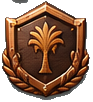
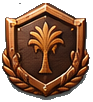
v70: league badges in lobby and results, promotion/demotion card
- Badge per league from the UI kit beside the name in the lobby banner (yours or the opponent's)
- Results: badge in the league row, and a promotion or demotion card when you cross a league line
- Clean a stray strip off the bronze and silver badge images

Claude-Session: https://claude.ai/code/session_01CeDzvGkakZqKzCVSNeQDDS

Changed region(s): [[0.129, 0.0, 0.3011, 0.0294], [0.4516, 0.0, 0.5161, 0.0294]]

diff --git a/index.html b/index.html
@@ -589,6 +589,22 @@ button.kW,button.kR,button.kG{min-height:46px}
 .spR b{text-align:left;direction:rtl;white-space:nowrap;font-size:13px}
 .spA{font-style:normal;text-align:center}.spA em{font-style:normal;font-size:13px}.spA .up{color:#1F8A4C}.spA .dn{color:#B3261E}
 .spec .note{margin:4px 0 0!important;color:#5A3410}
+
+/* ---- v70: league badges ---- */
+.lgB{display:inline-block;width:auto;object-fit:contain;filter:drop-shadow(0 2px 2px rgba(0,0,0,.45))}
+.lgB.legend{filter:drop-shadow(0 0 6px #FFD36A) drop-shadow(0 2px 2px rgba(0,0,0,.45)) saturate(1.3)}
+.hnBadge{flex:none;display:flex;align-items:center;justify-content:center;width:46px;height:52px;margin-left:-4px}
+.hnBadge .lgB{height:50px}
+.lgRow{display:inline-flex;align-items:center;gap:6px}
+.lgB.sm{height:26px}
+.promo{display:flex!important;flex-direction:column;align-items:center!important;justify-content:center!important;gap:2px;padding:6px 0 8px;border-radius:10px;text-align:center}
+.promo .lgB.lgBig{height:86px;animation:lgPop .7s cubic-bezier(.2,1.6,.4,1) both}
+.promo b{font-family:'Mirza','Tajawal',sans-serif;font-size:26px;line-height:1.1}
+.promo small{font-size:13px;font-weight:700}
+.promo.up2{background:radial-gradient(circle at 50% 40%,rgba(255,215,110,.55),transparent 70%)}.promo.up2 b{color:#7A4E1A}
+.promo.dn2 .lgB{filter:grayscale(.5) brightness(.85)}.promo.dn2 b{color:#7A140F}
+@keyframes lgPop{0%{transform:scale(.2) rotate(-20deg);opacity:0}100%{transform:none;opacity:1}}
+@media (prefers-reduced-motion: reduce){.promo .lgB.lgBig{animation:none}}
 /* thin scroll hint that shows while any list is moving */
 #scrollHint{position:fixed;z-index:30;width:5px;border-radius:3px;background:rgba(58,36,16,.72);box-shadow:0 0 0 1px rgba(255,236,190,.35);pointer-events:none;opacity:0;transition:opacity .35s}
 #scrollHint.on{opacity:1;transition:opacity .1s}
@@ -695,7 +711,7 @@ button.kW,button.kR,button.kG{min-height:46px}
   <button class="lobArrow" id="lobNext" aria-label="التالي"><svg viewBox="0 0 24 24" width="26" height="26" fill="none" stroke="currentColor" stroke-width="3" stroke-linecap="round" stroke-linejoin="round"><path d="M15 5l-7 7 7 7"/></svg></button>
   <div class="hnBan kP" id="lobBan">
     <div class="youTab" id="youTab">أنت</div>
-    <div class="hnRow1"><div class="hnWho"><b id="bName">أنت</b><span id="bSub"></span></div>
+    <div class="hnRow1"><span class="hnBadge" id="bBadge"></span><div class="hnWho"><b id="bName">أنت</b><span id="bSub"></span></div>
       <div class="hnLv"><b id="bLv">م١</b><div><b id="bRat">١٠٠٠</b><small id="bRatL">نقطة</small></div></div></div>
     <div class="hnRow2">
       <div class="hnMid" id="bMid"></div>
@@ -1629,6 +1645,8 @@ function enemyShoot(){const now=performance.now();eParts.flash.visible=true;{con
   renderHUD();}
 const LEAGUES=[[0,'دوري الفريج'],[1100,'دوري السوق'],[1250,'دوري الديوانية'],[1450,'دوري القصر'],[1700,'دوري المجلس الكبير'],[2000,'دوري الأساطير']];
 function league(r){let i=0;LEAGUES.forEach((l,j)=>{if(r>=l[0])i=j;});return i;}
+const LG_IMG=['rank_bronze','rank_silver','rank_gold','rank_pearl','rank_swords','rank_swords'];
+function lgBadge(i,cls){return '<img class="lgB'+(i>=5?' legend':'')+(cls?' '+cls:'')+'" src="ui/'+LG_IMG[i]+'.png?v=2" alt="'+LEAGUES[i][1]+'">';}
 let lastRes={};
 function settle(w,k){const diff=(foe.rating||save.rating)-save.rating;let d;
   if(w){d=Math.max(8,Math.min(40,Math.round(20+diff/25)));save.streak++;}
@@ -1885,7 +1903,7 @@ setInterval(()=>{if(state==='lobby')renderEnergy();},1000);
 function showSel(){const it=lineup[lobI];if(!it)return;const you=it.kind==='you',q=it.kind==='quick';const f=it.f;
   $('youTab').textContent=you?'أنت':q?'سريعة':'الخصم';
   $('bGold').textContent=AR(save.gold);$('bPearl').textContent=AR(save.pearls);
-  const lg=league(save.rating),nx=LEAGUES[lg+1];
+  const lg=league(save.rating),nx=LEAGUES[lg+1];$('bBadge').innerHTML=lgBadge(you||q?lg:league(f.rating));
   if(you||q){if(q){$('bName').textContent='مبارزة سريعة';$('bSub').innerHTML='خصم عشوائي بمستواك';}
     else{$('bName').innerHTML=save.title?titleHTML(save.title):LEAGUES[lg][1];$('bSub').innerHTML=save.title?LEAGUES[lg][1]:'المستوى '+AR(save.level);}
     $('bLv').textContent='م'+AR(save.level);$('bRat').textContent=AR(save.rating);$('bRatL').textContent='نقطة';
@@ -1946,9 +1964,11 @@ function portrait(L,dead,hole,smirk){const sk='#C99064',th=hex(L.thobe==null?0xF
    +(dead?'<path d="M35 51q5-3 10 0" stroke="#F5E2B8" stroke-width="2" fill="none"/>':smirk?'<path d="M34 49q7 5 13-2" stroke="#F5E2B8" stroke-width="2.4" fill="none" stroke-linecap="round"/>':'<path d="M35 50h10" stroke="#F5E2B8" stroke-width="2"/>')
    +(hole?'<circle cx="46" cy="27" r="4.5" fill="#2A1A0E"/><circle cx="46" cy="27" r="2.2" fill="#7A140F"/><path d="M46 31v8" stroke="#9E1D17" stroke-width="2" stroke-linecap="round"/>':'')
    +'</svg>';}
-function renderRes(){const r=lastRes;const L=LEAGUES[league(save.rating)][1];
+function renderRes(){const r=lastRes;const lg=league(save.rating),L=lgBadge(lg,'sm')+LEAGUES[lg][1],lg0=league(save.rating-(r.d||0));
   $('resCard').innerHTML='<div><span>النقاط</span><span class="'+(r.d>=0?'up':'dn')+'">'+(r.d>=0?'+':'−')+AR(Math.abs(r.d))+' ← '+AR(save.rating)+'</span></div>'
-   +'<div><span>الدوري</span><span>'+L+'</span></div>'
+   +(lg>lg0?'<div class="promo up2">'+lgBadge(lg,'lgBig')+'<b>ترقّيت!</b><small>وصلت '+LEAGUES[lg][1]+'</small></div>':'')
+   +(lg<lg0?'<div class="promo dn2">'+lgBadge(lg,'lgBig')+'<b>نزلت دوري</b><small>رجعت '+LEAGUES[lg][1]+'. باقي لك '+AR(LEAGUES[lg0][0]-save.rating)+' نقطة وترجع</small></div>':'')
+   +'<div><span>الدوري</span><span class="lgRow">'+L+'</span></div>'
    +(r.w?'<div><span>الجائزة</span><span class="up">+'+AR(r.gold)+' روبية</span></div>':'')
    +(r.w&&r.streak>1?'<div><span>سلسلة انتصارات</span><span class="up">'+AR(r.streak)+' (+'+AR(Math.min(50,(r.streak-1)*10))+'٪)</span></div>':'')
    +(r.tag==='revenge'&&r.w?'<div><span>ثأر</span><span class="up">خلصت منه، جائزة مضاعفة</span></div>':'')

diff --git a/CLAUDE.md b/CLAUDE.md
@@ -6,7 +6,7 @@ checked (screenshots) before reporting. Goal: a professional, polished, Gulf-her
 iOS game "High Noon" in mechanics/feel only — never copy its name, art, sounds or code).
 
 ## Where things live
-- Repo: github.com/ioxqox/alqayla (GitHub Pages). Live: https://ioxqox.github.io/alqayla/?v=NN (bump NN each release; last used 69).
+- Repo: github.com/ioxqox/alqayla (GitHub Pages). Live: https://ioxqox.github.io/alqayla/?v=NN (bump NN each release; last used 70).
 - Claude can push directly (GitHub app installed). Commit as `Claude <noreply@anthropic.com>`.
 - Plan & tracker doc (Claude Docs): https://claude.ai/code/artifact/a512277a-dd89-43db-aa94-a63e087aa06d
 - Owner's PC (Windows, "killua", RTX 3080), mirror folder: `C:\Users\MA\Documents\MY PROJECT 2026\القايلة - ملفات اللعبة`
@@ -30,6 +30,7 @@ iOS game "High Noon" in mechanics/feel only — never copy its name, art, sounds
 - Balance (v68): NO power upgrades. gStat(id) returns the weapon's fixed base stats; old save.wg levels were refunded once (save.refund notice on the weapons list). Weapon screen tabs: المواصفات (wSpecs/specTable with ▲▼ vs equipped gun) · التقدم · الألوان. Next: customization slots (barrel 10 kills / grip 50 / action 200, sidegrades bought once with rupees), then a duel simulation to tune numbers so no weapon/loadout tops 55% wins. Design is in the plan doc.
 - Controls (v69): direct-touch aiming removed — the game is played by phone motion. aimMode() = gyro, or finger-drag only if chosen or the device sends no motion (gyroSeen). MOT() = raise-to-draw only when the sensor really works (else the draw button shows). Raise-to-draw is on by default (save.motionV3 migration). First tap asks iOS for motion permission.
 - Draw speed per weapon (WEAPONS.draw ms, gStat().draw): fard 0, naqsh 70, shotgun 150, fitil 240; shown as السحب in specs. Grip slot will trade stability vs draw speed (not aim speed).
+- League badges (v70): lgBadge(i) maps LEAGUES to ui/rank_* (legend = swords + gold glow). Shown in the lobby banner (#bBadge) and results (league row, plus a promotion/demotion card computed from rating before/after).
 - A global thin scroll hint (#scrollHint) appears on any scrolled list.
 - Testing: Playwright + swiftshader in /home/claude/srv (copy index.html there, inject `window.__q=c=>eval(c);` before `function endLose(){`; do NOT copy sw.js into srv — it breaks local tests). Scripts t_audit.py (full flow), t45 (fight fx), t52 (weapons), t56 (clothes), t55 (holster).
 
@@ -44,7 +45,7 @@ iOS game "High Noon" in mechanics/feel only — never copy its name, art, sounds
 1. Owner tests v69 on phone (stacked hub, farther lobby wall, specs tab, motion-only controls, draw speed) and reports issues. Then balance step 2: customization slots.
 2. Night/sunset variants of arenas, and a new arena (dhow-building "النقعة") from earlier ChatGPT picks — later.
 3. Store screenshots + icon from the new art.
-4. Rank badges (ui/rank_*.png) on lobby/results; chests for mission rewards.
+4. Chests for mission rewards (ui/chest_big, it_chest). Badges done in v70.
 5. Known weak spots to be honest about: low-detail Meshy-Lite characters (fixed only in step 6), simple first-person gun, gray inside a few trigger guards.
 
 ## Working rules learned
